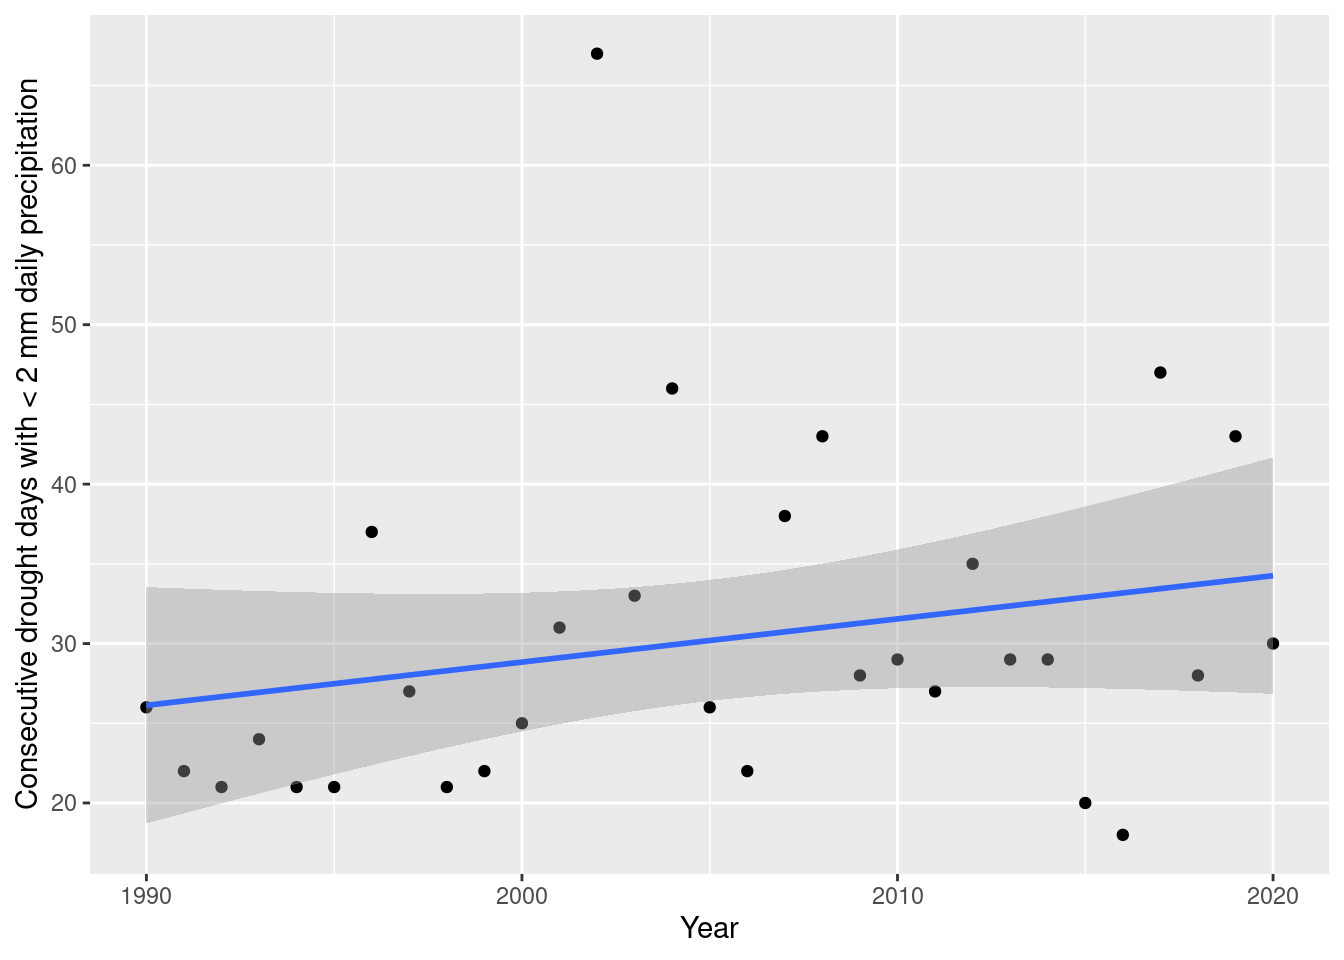
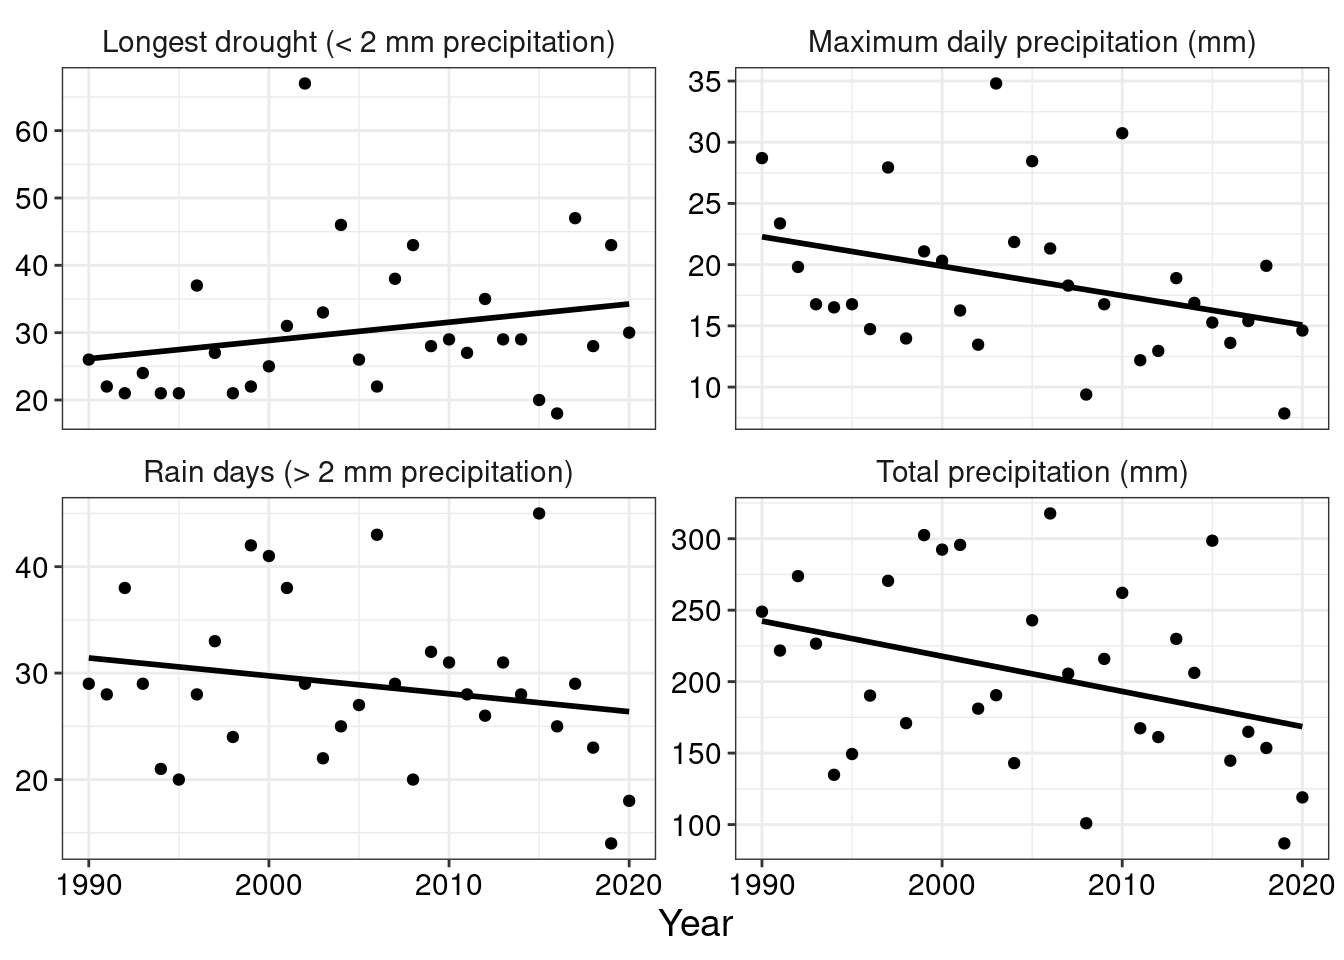
Combine precip trend charts

diff --git a/maxfield_JP_analyses.html b/maxfield_JP_analyses.html
@@ -11,7 +11,7 @@
 
 <meta name="author" content="John Powers" />
 
-<meta name="date" content="2021-03-31" />
+<meta name="date" content="2021-04-01" />
 
 <title>Maxfield Meadow Ipomopsis Experiment</title>
 
@@ -255,7 +255,7 @@ div.tocify {
 
 <h1 class="title toc-ignore">Maxfield Meadow Ipomopsis Experiment</h1>
 <h4 class="author"><a href="http://sites.uci.edu/powers/">John Powers</a></h4>
-<h4 class="date">2021-03-31</h4>
+<h4 class="date">2021-04-01</h4>
 
 </div>
 
@@ -474,43 +474,25 @@ ggpairs(monthly_all %&gt;% mutate(season=factor(c(&quot;wntr&quot;,&quot;smmr&qu
       scale_color_brewer(palette = &quot;Set1&quot;, direction = -1) + 
   scale_x_continuous(breaks=scales::breaks_extended(10)) + theme_minimal()</code></pre>
 <p><img src="images/precip_trend-2.png" width="672" /></p>
-<pre class="r"><code>daily_all %&gt;% filter(year(date)&gt;1989, year(date)&lt;2021, EPA_NOAA_filled &gt; 2) %&gt;% 
+<pre class="r"><code>summary_EPA_NOAA &lt;- daily_all %&gt;% filter(year(date)&gt;1989, year(date)&lt;2021, EPA_NOAA_filled &gt; 2) %&gt;% 
   mutate(drought_days = c(0,diff(date)), year=year(date)) %&gt;% filter(ground_covered==&quot;smmr&quot;) %&gt;% 
-  select(year, date, drought_days) %&gt;% group_by(year) %&gt;% summarize(max_drought_days = max(drought_days)) %&gt;% 
-  ggplot(aes(x= year, y=max_drought_days)) + geom_point() + geom_smooth(method=&quot;lm&quot;) +
-  labs(x=&quot;Year&quot;, y=&quot;Consecutive drought days with &lt; 2 mm daily precipitation&quot;)</code></pre>
+  select(year, date, drought_days) %&gt;% group_by(year) %&gt;% summarize(max_drought_days_2mm = max(drought_days)) %&gt;% 
+  left_join(daily_all %&gt;% filter(year(date)&gt;1989, year(date)&lt;2021, ground_covered==&quot;smmr&quot;) %&gt;% group_by(year=year(date)) %&gt;% 
+              summarize(rain_days_2mm = sum(EPA_NOAA_filled &gt; 2, na.rm=T),
+                        max_precip_mm = max(EPA_NOAA_filled, na.rm=T),
+                        total_precip_mm = sum(EPA_NOAA_filled, na.rm=T)))
+
+summary_names &lt;- c(max_drought_days_2mm=&quot;Longest drought (&lt; 2 mm precipitation)&quot;, 
+                   rain_days_2mm = &quot;Rain days (&gt; 2 mm precipitation)&quot;,
+                   max_precip_mm = &quot;Maximum daily precipitation (mm)&quot;,
+                   total_precip_mm = &quot;Total precipitation (mm)&quot;)
+
+ggplot(summary_EPA_NOAA %&gt;% pivot_longer(!year), aes(y=value, x=year))+ 
+  facet_wrap(vars(name), scales=&quot;free_y&quot;, labeller=as_labeller(summary_names)) +
+  geom_smooth(method=&quot;lm&quot;, color=&quot;black&quot;, se=F) + geom_point() + labs(x=&quot;Year&quot;, y=&quot;&quot;) + 
+  theme_bw() +theme(text=element_text(color=&quot;black&quot;, size=14), axis.text = element_text(color=&quot;black&quot;),
+                            axis.title.y= element_blank(), strip.background = element_blank())</code></pre>
 <p><img src="images/precip_trend-3.png" width="672" /></p>
-<pre class="r"><code>daily_all %&gt;% filter(year(date)&gt;1989, year(date)&lt;2021, ground_covered==&quot;smmr&quot;, 
-                     EPA_NOAA_filled &gt; 2) %&gt;% count(year=year(date)) %&gt;% 
-    ggplot(aes(x= year, y=n)) + geom_point() + geom_smooth(method=&quot;lm&quot;) +
-  labs(x=&quot;Year&quot;, y=&quot;Days with &gt; 2 mm daily precipitation&quot;)</code></pre>
-<p><img src="images/precip_trend-4.png" width="672" /></p>
-<pre class="r"><code>daily_all %&gt;% filter(year(date)&gt;1989, year(date)&lt;2021, ground_covered==&quot;smmr&quot;) %&gt;% 
-  group_by(year=year(date)) %&gt;% summarize(max_precip = max(EPA_NOAA_filled, na.rm=T)) %&gt;% 
-    ggplot(aes(x= year, y=max_precip)) + geom_point() + geom_smooth(method=&quot;lm&quot;) +
-  labs(x=&quot;Year&quot;, y=&quot;Maximum daily precipitation (mm)&quot;)</code></pre>
-<p><img src="images/precip_trend-5.png" width="672" /></p>
-<pre class="r"><code>ggplot(groundcover, aes(x=year, y=precip_est_mm)) + geom_point() + geom_smooth(method=&quot;lm&quot;) +
-    labs(x=&quot;Year&quot;, y=&quot;Total precip from snowmelt to day 214 (mm)&quot;) + xlim(c(1990, 2020))</code></pre>
-<p><img src="images/precip_trend-6.png" width="672" /></p>
-<pre class="r"><code>lm(precip_est_mm ~ year, data = groundcover) %&gt;% summary #total since snow melted</code></pre>
-<pre><code>
-Call:
-lm(formula = precip_est_mm ~ year, data = groundcover)
-
-Residuals:
-    Min      1Q  Median      3Q     Max 
--57.166 -28.330  -3.535  20.781 105.005 
-
-Coefficients:
-             Estimate Std. Error t value Pr(&gt;|t|)
-(Intercept) 2398.0636  1582.8866   1.515    0.141
-year          -1.1556     0.7895  -1.464    0.154
-
-Residual standard error: 39.31 on 29 degrees of freedom
-  (14 observations deleted due to missingness)
-Multiple R-squared:  0.0688,    Adjusted R-squared:  0.03669 
-F-statistic: 2.143 on 1 and 29 DF,  p-value: 0.154</code></pre>
 <p>Long-term precipitation trends from Crested Butte station</p>
 <pre class="r"><code>ggplot(daily_NOAA, aes(x=date, y=NOAA_stations_name[id], color=prcp_mm)) + geom_tile() </code></pre>
 <p><img src="images/precip_trend_long-1.png" width="672" /></p>
